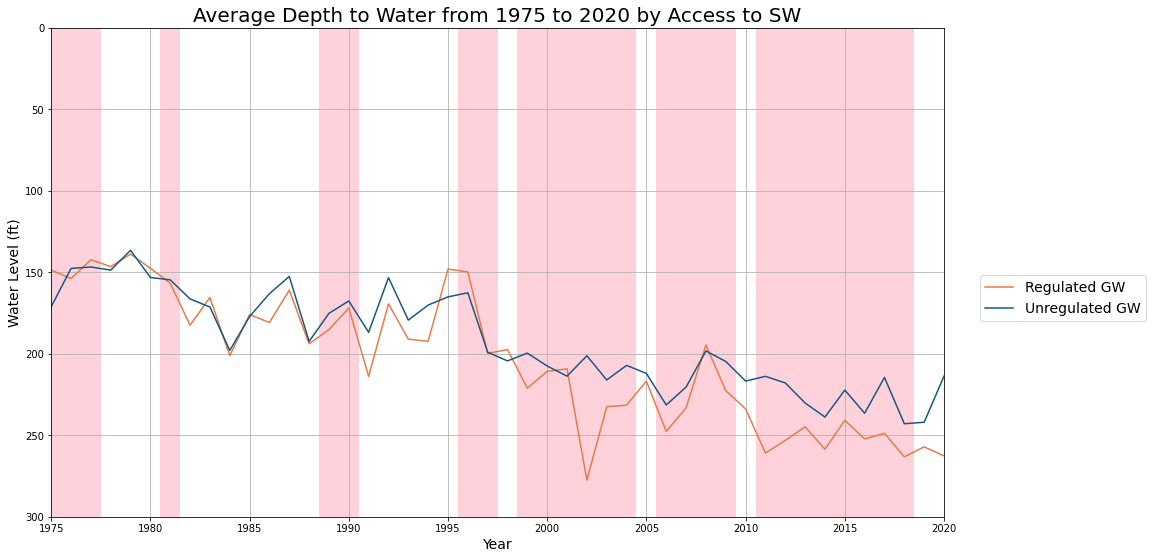
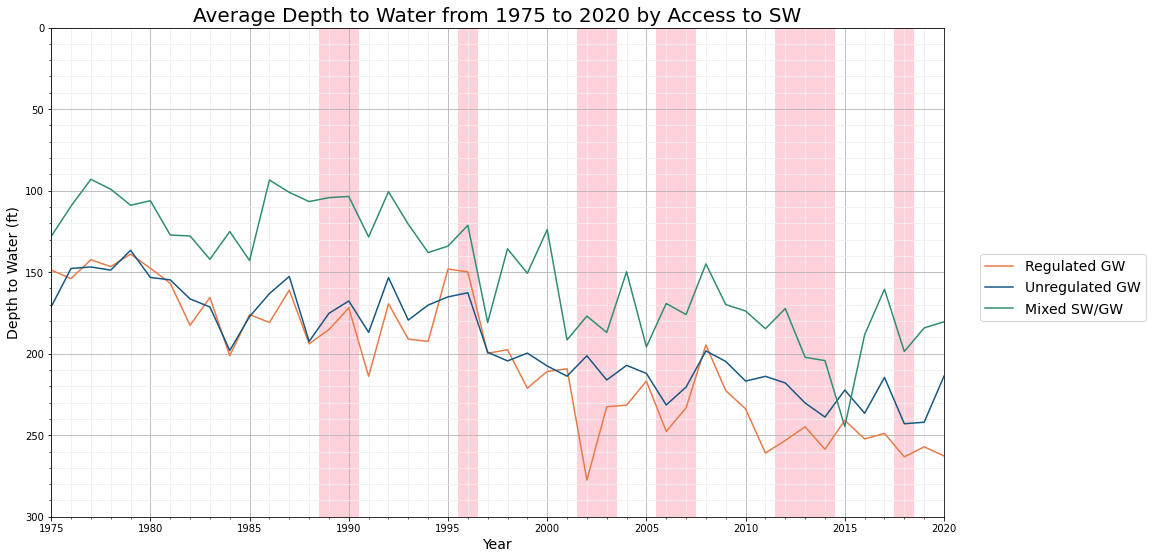
More stats and graphs

diff --git a/SummaryCodes/Spatial_Analysis_Wells_FinalGeoreg.py b/SummaryCodes/Spatial_Analysis_Wells_FinalGeoreg.py
@@ -293,8 +293,8 @@ fsize = 14
 
 fig, ax = plt.subplots(figsize = (16,9))
 ax.plot(ds['CAP'], label='CAP', color=c_2)
-ax.plot(ds['No_CAP'], label='Regulated GW', color=c_3) 
-ax.plot(ds['GW'], label='Unregulated GW', color=c_7) 
+# ax.plot(ds['No_CAP'], label='Regulated GW', color=c_3) 
+# ax.plot(ds['GW'], label='Unregulated GW', color=c_7) 
 ax.plot(ds['Mix'], label='Mixed SW/GW', color=c_5) 
 ax.plot(ds['SW'], label='Surface Water', color=c_4) 
 
@@ -336,9 +336,9 @@ ax.minorticks_on()
 
 fig.set_dpi(600.0)
 
-plt.savefig(outputpath+name+'_Drought', bbox_inches='tight')
+# plt.savefig(outputpath+name+'_Drought', bbox_inches='tight')
 # plt.savefig(outputpath+name+'_byGW', bbox_inches='tight')
-# plt.savefig(outputpath+name+'_bySW', bbox_inches='tight')
+plt.savefig(outputpath+name+'_bySW', bbox_inches='tight')
 # plt.savefig(outputpath+name+'_5', bbox_inches='tight')
 
 #%% Plotting individual divisions
@@ -1254,8 +1254,8 @@ del other['Status']
 
 # %% Boxplot Stuff
 df = severe
-df2 = severe
-name = 'severe'
+df2 = other
+name = 'Severe'
 # labels = df.columns.tolist()
 betterlabels = ['CAP','Regulated Groundwater','Surface Water','Unregulated Groundwater','Mixed GW/SW'] 
 
@@ -1280,6 +1280,42 @@ plt.xticks(rotation=30)
 ax1.set_ylabel('Depth to Water (ft)')
 ax1.grid(visible=True)
 fig.set_dpi(600.0)
+ax1.set_ylim(300,0)
+
+plt.savefig(outputpath+'Stats/Water_CAT/'+name+"Reverse_axes", bbox_inches = 'tight')
+
+# %%
+name = 'Normal-Wet'
+# labels = df.columns.tolist()
+betterlabels = ['CAP','Regulated Groundwater','Surface Water','Unregulated Groundwater','Mixed GW/SW'] 
+
+fig, ax1 = plt.subplots(nrows=1, ncols=1, figsize=(8, 4))
+
+bplot = ax1.boxplot(df2,
+                     vert=True,  
+                     patch_artist=True,  
+                     labels=betterlabels
+                     )
+
+# colors = reg_colors
+# colors = SW_colors
+colors = [c_2,c_3,c_4,c_7,c_5]
+
+
+for patch, color in zip(bplot['boxes'], colors):
+    patch.set_facecolor(color)
+
+ax1.set_title(name)
+plt.xticks(rotation=30)
+ax1.set_ylabel('Depth to Water (ft)')
+ax1.grid(visible=True)
+fig.set_dpi(600.0)
+ax1.set_ylim(300,0)
+ax1.set_ylim(0,300)
+
+plt.savefig(outputpath+'Stats/Water_CAT/'+name, bbox_inches = 'tight')
+# plt.savefig(outputpath+'Stats/Water_CAT/'+name+'Reverse_axes', bbox_inches = 'tight')
+
 
 # %% Test Analysis against PDSI
 wlanalysis_period['PDSI'] = drought_indices['PDSI']
@@ -1296,29 +1332,73 @@ ax.scatter(drought_indices['PDSI'], wlanalysis_period['R'], lw=1)
 # my_r = x_simple.corr(method="spearman")
 # print(my_r)
 
-rho, pval = sp.spearmanr(wlanalysis_period.shift(1), drought_indices['PDSI'])
+rho, pval = sp.spearmanr(wlanalysis_period.shift(-1), drought_indices['PDSI'])
 print("rho = ", rho, '; p-value - ',pval)
+
+# %%
+ds = wlanalysis_period
+columns = ds.columns
+column_list = ds.columns.tolist()
+print(column_list)
+# %%
+lag = 1
+
+for i in column_list:
+        print(i,' r:')
+        print(wlanalysis_period[i].corr(drought_indices['PDSI'].shift(lag), method='pearson'))
+
+# %%
+lag = 0
+rho, pval = sp.spearmanr(wlanalysis_period, wlanalysis_period['PDSI'].shift(lag))
+print("rho = ", rho, '; p-value - ',pval)
+
+# %%
+
+for c in column_list:
+ correlation, pvalue = sp.spearmanr(wlanalysis_period[c], drought_indices['PDSI']) 
+ print(f'{c}: {correlation : .4f}, significant: {pvalue}')
+# %%
+lag = 4
+wlanalysis_period['PDSI'] = drought_indices['PDSI'].shift(lag)
+# wlanalysis_period
+
+print(column_list)
+rho, pval = sp.spearmanr(wlanalysis_period, wlanalysis_period['PDSI'])
+
+plt.figure(figsize=(10,6))
+heatmap = sns.heatmap(pval, vmin=-1, 
+                     vmax=1, annot=True)
+plt.title("Spearman Correlation pval")
 
 # %% Plotting to see if there's a relationship
 #%% Plot just the regulated
 ds = wlanalysis_period
-minyear=1993
+minyear=1975
 maxyear=2020
 lag = -4
 name = "Average DTW and PDSI from " + str(minyear) + " to " + str(maxyear) + ' lagged by ' + str(lag)
-min_y = 100
-max_y = 250
+min_y = 0
+max_y = 300
 fsize = 14
 
 fig, ax = plt.subplots(figsize = (16,9))
-ax.plot(ds['R'].shift(lag), label='GW Regulated', color=c_2) 
+# ax.plot(ds['R'].shift(lag), label='GW Regulated', color=c_2) 
 # ax.plot(ds['U'].shift(lag), label='GW Unregulated', color=c_7)
+
+ax.plot(ds['CAP'].shift(lag), label='CAP', color=c_2)
+# ax.plot(ds['No_CAP'].shift(lag), label='Regulated Groundwater', color=c_3)
+ax.plot(ds['SW'].shift(lag), label='Surface Water', color=c_4)
+# ax.plot(ds['GW'].shift(lag), label='Unregulated Groundwater', color=c_7)
+ax.plot(ds['Mix'].shift(lag), label='Mixed SW/GW', color=c_5)
+# colors = [c_2,c_3,c_4,c_7,c_5]
+
+
 
 # Secondary Axis
 ax2 = ax.twinx()
 ax2.set_ylabel('PDSI')
 ax2.set_ylim(-7, 10)
-# ax2.plot(ds['PDSI'], '-.',label='PDSI', color='grey', lw = 3, zorder=0) 
+ax2.plot(ds['PDSI'], '-.',label='PDSI', color='grey', lw = 3, zorder=0) 
 
 ax.set_xlim(minyear,maxyear)
 ax.set_ylim(max_y,min_y)
@@ -1357,13 +1437,16 @@ fig.set_dpi(600.0)
 # plt.savefig(outputpath+name+'_byregulation', bbox_inches='tight')
 # plt.savefig(outputpath+name+'_byregulation_Drought', bbox_inches='tight')
 # plt.savefig(outputpath+name+'_GWReg_Drought', bbox_inches='tight')
+# plt.savefig(outputpath+name+'_GW_Drought', bbox_inches='tight')
+plt.savefig(outputpath+name+'_SW_Drought', bbox_inches='tight')
+# plt.savefig(outputpath+name+'_AllAccess_Drought', bbox_inches='tight')
 
 
 # %%
 def display_correlation(df):
     r = df.corr(method="spearman")
     plt.figure(figsize=(10,6))
-    heatmap = sns.heatmap(df.corr(), vmin=-1, 
+    heatmap = sns.heatmap(df.corr(method='spearman'), vmin=-1, 
                       vmax=1, annot=True)
     plt.title("Spearman Correlation")
     return(r)
@@ -1375,17 +1458,25 @@ def display_corr_pairs(df,color="cyan"):
                                         "{:.2f}".format(rho)) if ax!=None else None
                             )      
 
-    r = display_correlation(df)
-    rho = df.corr(method="pearson")
+    rho = display_correlation(df)
+    r = df.corr(method="pearson")
     g = sns.PairGrid(df,corner=True)
     g.map_diag(plt.hist,color="yellow")
     g.map_lower(sns.scatterplot,color="magenta")
     set_title(g.axes,r,rho)
     plt.subplots_adjust(hspace = 0.6)
     plt.show()   
+
+# %%
+df = wlanalysis_period
+print('Spearman',df.corr(method='spearman'))
+print('Pearson',df.corr(method='pearson'))
 # %%
 display_correlation(wlanalysis_period)
 # %%
+lag = 4
+wlanalysis_period['PDSI'] = drought_indices['PDSI'].shift(lag)
+
 display_corr_pairs(wlanalysis_period)
 
 # %%
